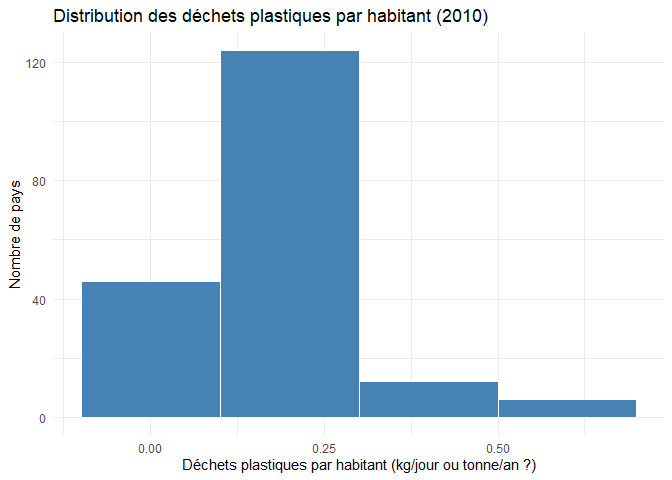
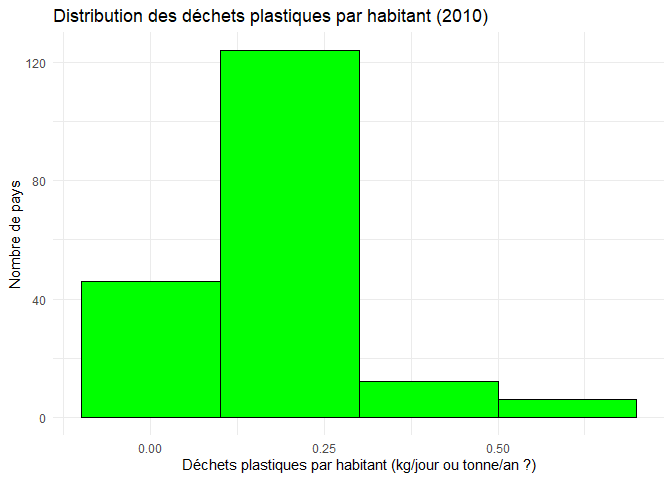
"EXERCICE 1, 2 et 3"

Changed region(s): [[0.0938, 0.0938, 0.9688, 0.875]]

diff --git a/lab-02.md b/lab-02.md
@@ -36,7 +36,7 @@ plastic_waste %>%
 
 ``` r
   ggplot(data = plastic_waste, aes(x = plastic_waste_per_cap)) +
-  geom_histogram(binwidth = 0.2, fill = "steelblue", color = "white") +
+  geom_histogram(binwidth = 0.2, fill = "green", color = "black") +
   labs(
     title = "Distribution des déchets plastiques par habitant (2010)",
     x = "Déchets plastiques par habitant (kg/jour ou tonne/an ?)",
@@ -49,32 +49,82 @@ plastic_waste %>%
 ### Exercise 1
 
 ``` r
-# insert code here
+ggplot(plastic_waste, aes(x = plastic_waste_per_cap)) +
+  geom_histogram(binwidth = 0.2, fill = "green", color = "black") +
+  facet_wrap(~ continent) +
+  labs(
+    title = "Distribution des déchets plastiques par habitant (2010)",
+    x = "Déchets plastiques par habitant (kg/jour)",
+    y = "Nombre de pays"
+  ) +
+  theme_minimal()
 ```
+
+![](lab-02_files/figure-gfm/plastic-waste-continent-1.png)<!-- -->
 
 ### Exercise 2
 
 ``` r
-# insert code here
+library(ggplot2)
+
+# Graphique de densité avec couleurs par continent
+ggplot(plastic_waste, aes(x = plastic_waste_per_cap, fill = continent, color = continent)) +
+  geom_density(alpha = 0.4) +
+  labs(
+    title = "Distribution des déchets plastiques par habitant (2010)",
+    x = "Déchets plastiques par habitant (kg/jour)",
+    y = "Densité"
+  ) +
+  theme_minimal()
 ```
 
-Réponse à la question…
+![](lab-02_files/figure-gfm/plastic-waste-density-1.png)<!-- -->
+
+Dans ggplot, il faut différencier les esthétiques qui dépendent des
+données (aes()) des paramètres fixes qui sont indépendants des données
+(argument direct de la géométrie).Par exemple, la couleur (contour ou
+remplissage) doit changer en fonction des variables, donc cela se fait
+avec aes(). À l’inverse, la transparence est la même pour toutes les
+courbes, donc cela se fait par geom_density().
 
 ### Exercise 3
 
 Boxplot:
 
 ``` r
-# insert code here
+ggplot(plastic_waste, aes(x = continent, y = plastic_waste_per_cap)) +
+  geom_boxplot(alpha = 0.6) +
+  labs(
+    title = "Déchets plastiques par habitant (2010)",
+    x = "Continent",
+    y = "Déchets plastiques par habitant (kg/jour)"
+  ) +
+  theme_minimal() +
+  theme(legend.position = "none")
 ```
+
+![](lab-02_files/figure-gfm/plastic-waste-boxplot-1.png)<!-- -->
 
 Violin plot:
 
 ``` r
-# insert code here
+ggplot(plastic_waste, aes(x = continent, y = plastic_waste_per_cap)) +
+  geom_violin(alpha = 0.6, trim = FALSE) +
+  labs(
+    title = "Déchets plastiques par habitant (2010)",
+    x = "Continent",
+    y = "Déchets plastiques par habitant (kg/jour)"
+  ) +
+  theme_minimal() +
+  theme(legend.position = "none")
 ```
 
-Réponse à la question…
+![](lab-02_files/figure-gfm/plastic-waste-violin-1.png)<!-- -->
+
+Les Boxplot montrent la médiane, l’étendue interquartile et les
+outliers, mais cela ils ne montrent pas la forme des distributions à
+l’intérieur. Pour les Violoin plot, cela permet de voir la symétrie, les
+différents pics et la concentration dans certaines zones.
 
 ### Exercise 4
 
